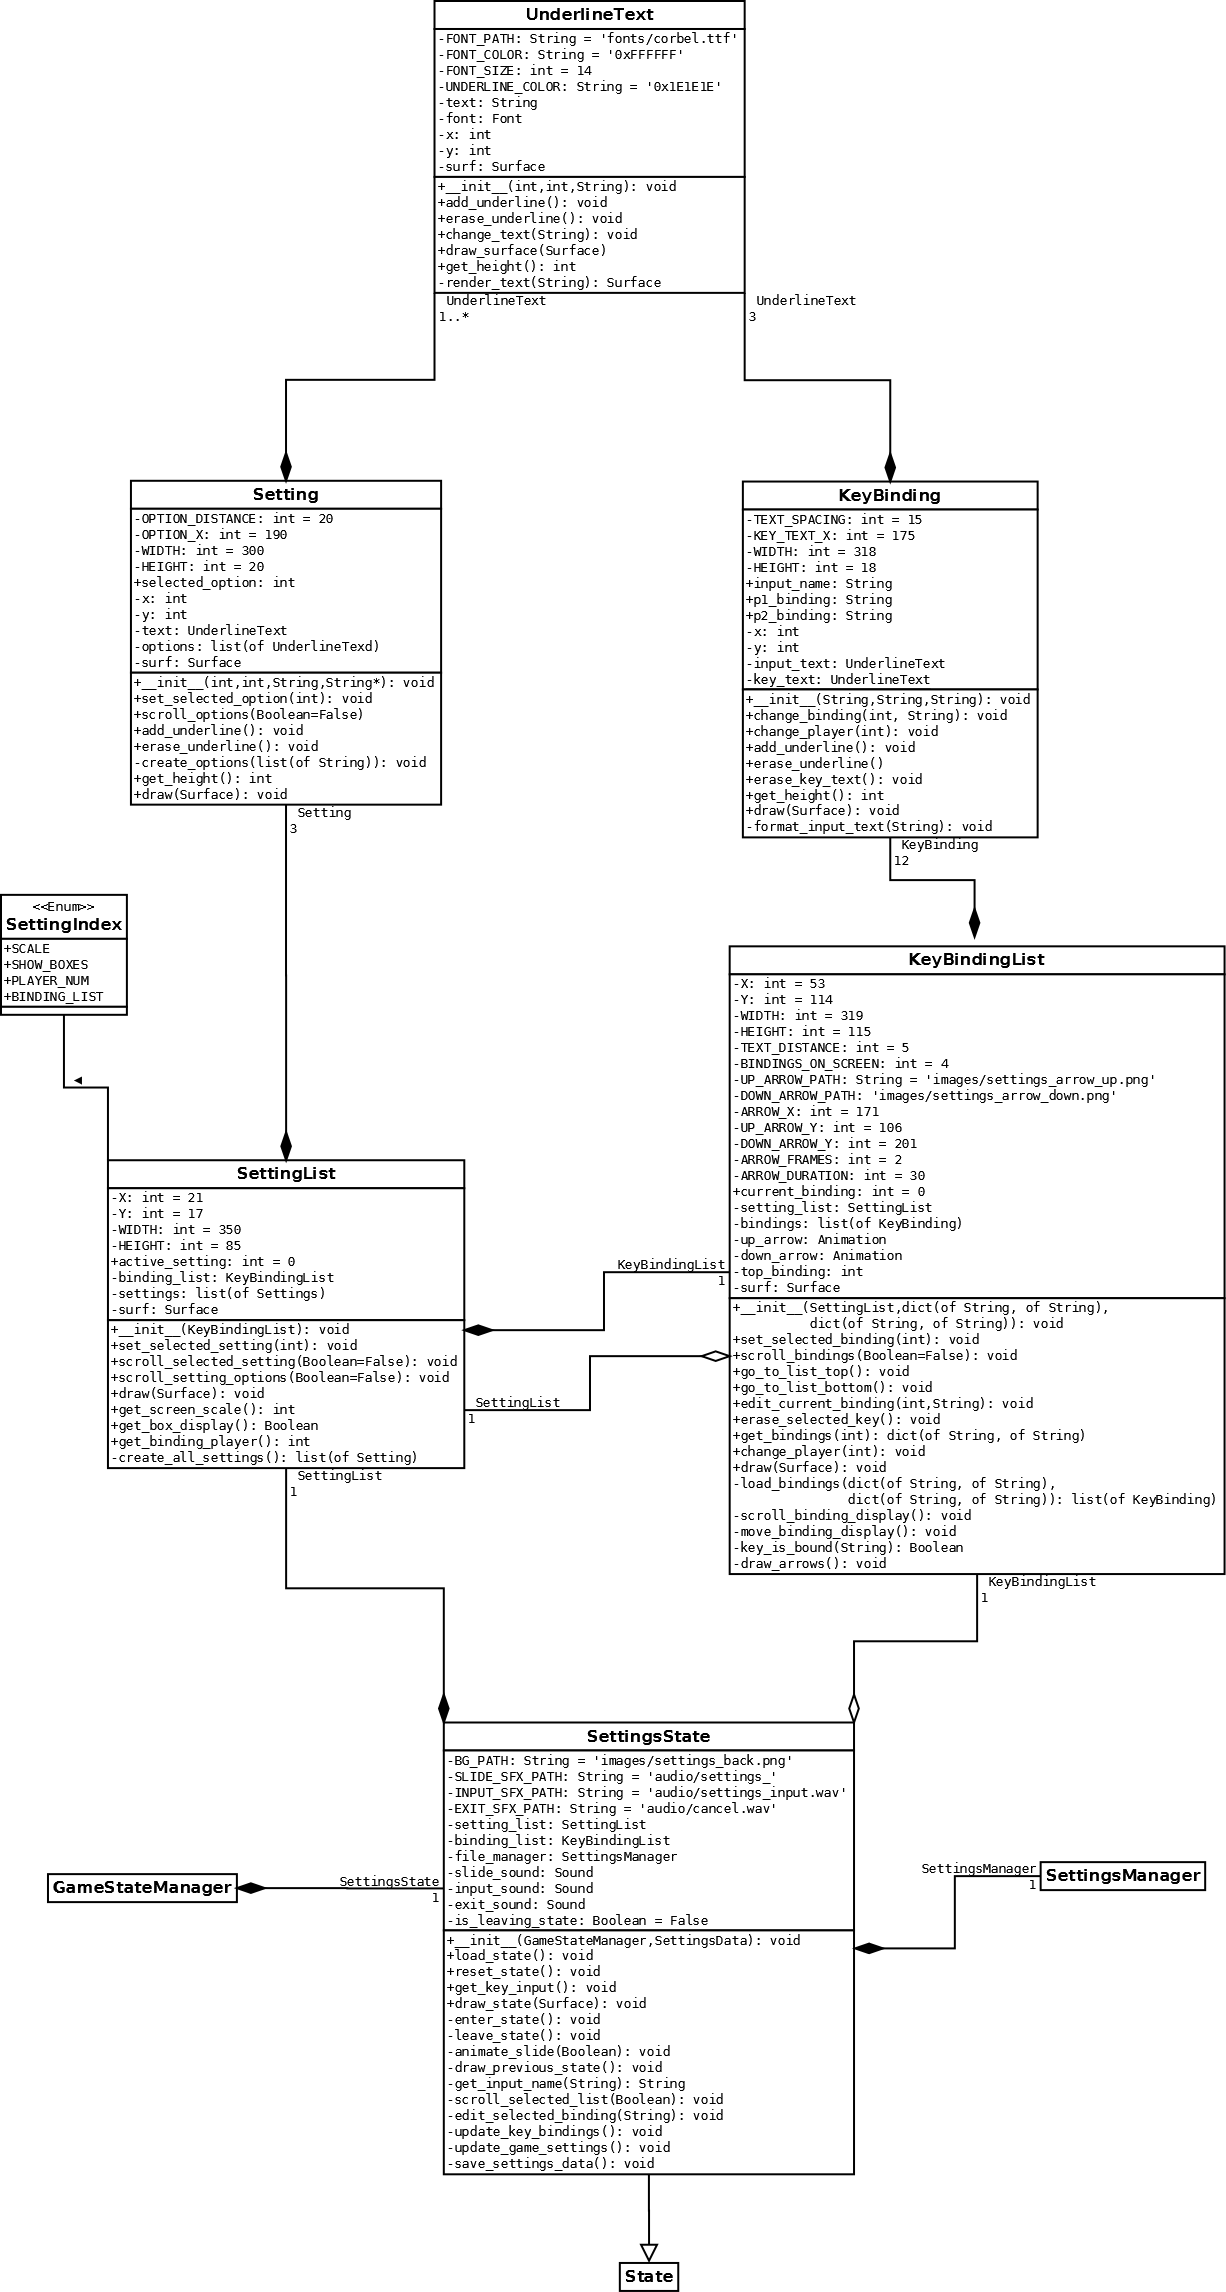
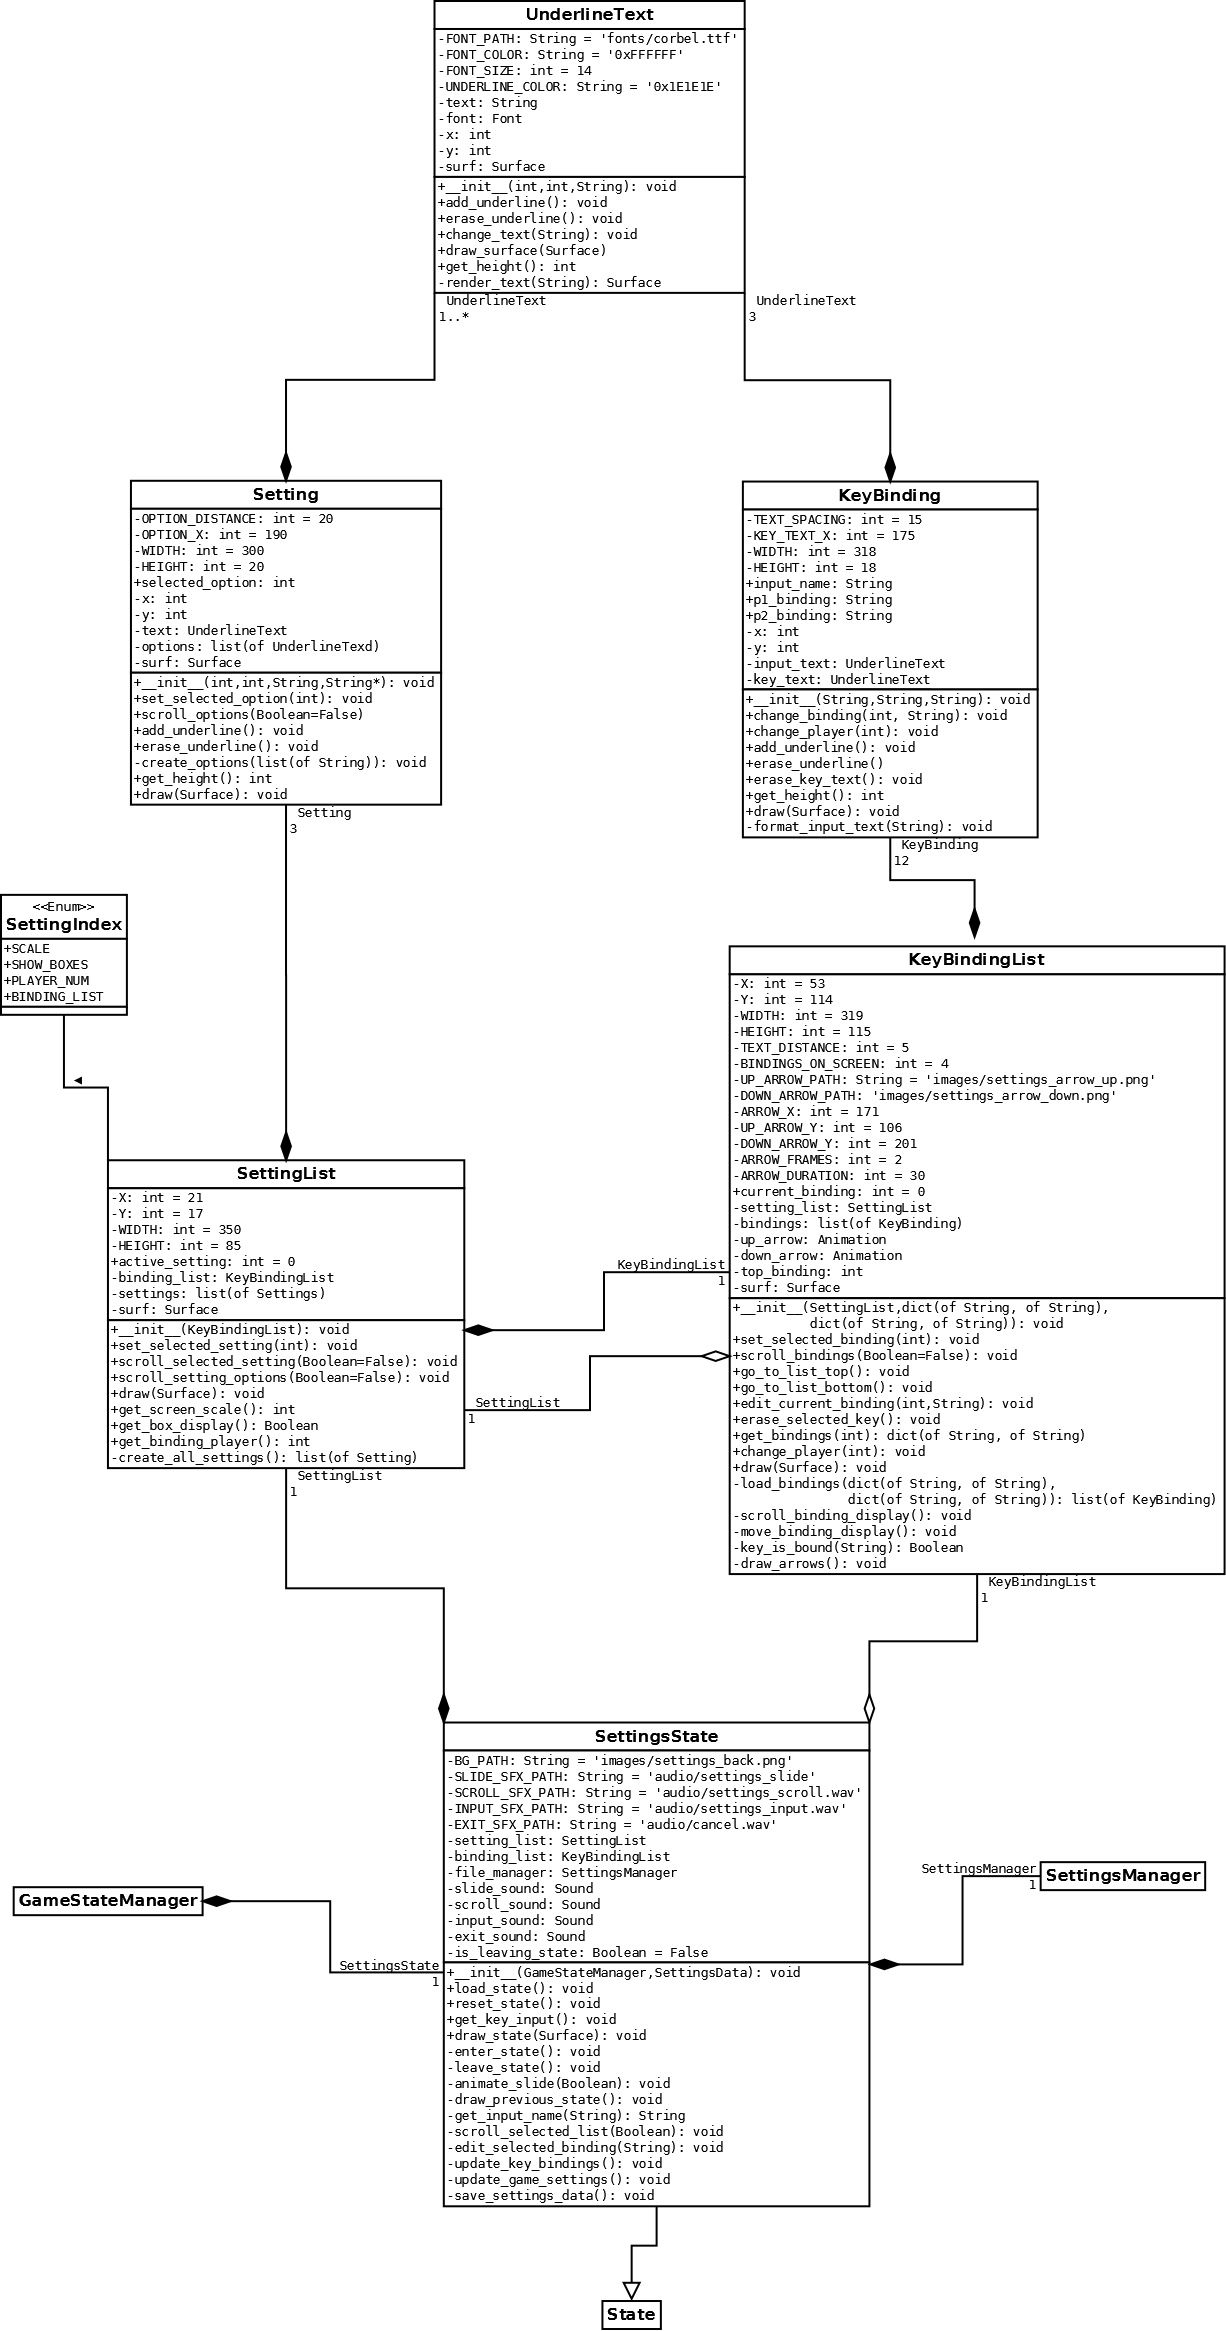
SettingsState: Add sfx for list scrolling

diff --git a/lib/game_states/settings_state.py b/lib/game_states/settings_state.py
@@ -33,6 +33,8 @@ class SettingsState(State):
             slide-in sound effect.
         INPUT_SFX_PATH: A string containing the file path for the
             player input sound effect.
+        SCROLL_SFX_PATH: A string containing the file path for the
+            scroll list sound effect.
         EXIT_SFX_PATH: A string containing the file path for the
             exit screen sound effect.
         SLIDE_SPEED: An integer that sets the speed at which the State
@@ -46,6 +48,8 @@ class SettingsState(State):
         binding_list: The KeyBindingList object that controls all
             the available Key Bindings.
         bg_image: The PyGame image for the Settings Screen background.
+        scroll_sound: A PyGame Sound that plays when the players select
+            another item in the SettingList or KeyBindingList.
         slide_sound: A PyGame Sound that plays when the screen slides in
             or out of the window.
         input_sound: A PyGame Sound that will plays when the players
@@ -59,6 +63,7 @@ class SettingsState(State):
     """
     BG_PATH = "images/settings_back.png"
     SLIDE_SFX_PATH = "audio/settings_slide.wav"
+    SCROLL_SFX_PATH = "audio/settings_scroll.wav"
     INPUT_SFX_PATH = "audio/settings_input.wav"
     EXIT_SFX_PATH = "audio/cancel.wav"
     SLIDE_SPEED = 500.0
@@ -84,6 +89,7 @@ class SettingsState(State):
         self.file_manager = SettingsManager()
         self.bg_image = Graphic(self.BG_PATH, (0.0, 0.0))
         self.slide_sound = Sound(self.SLIDE_SFX_PATH)
+        self.scroll_sound = Sound(self.SCROLL_SFX_PATH)
         self.input_sound = Sound(self.INPUT_SFX_PATH)
         self.exit_sound = Sound(self.EXIT_SFX_PATH)
         self.is_editing_binding = False
